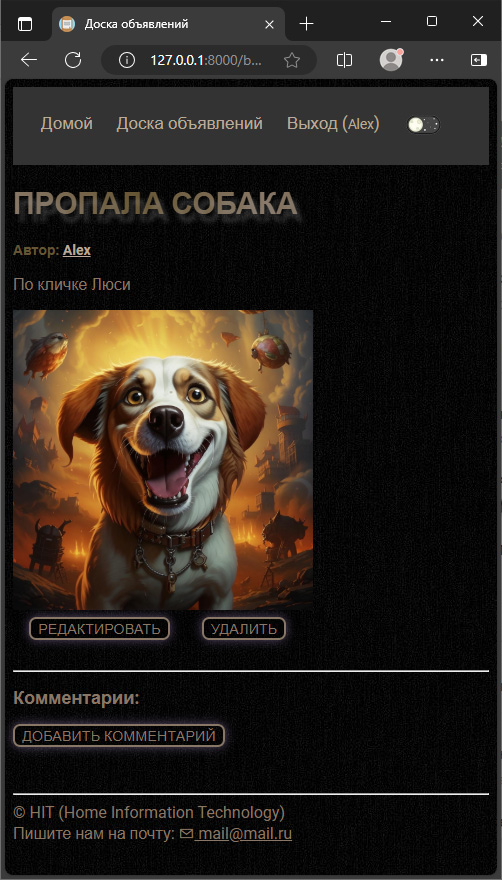
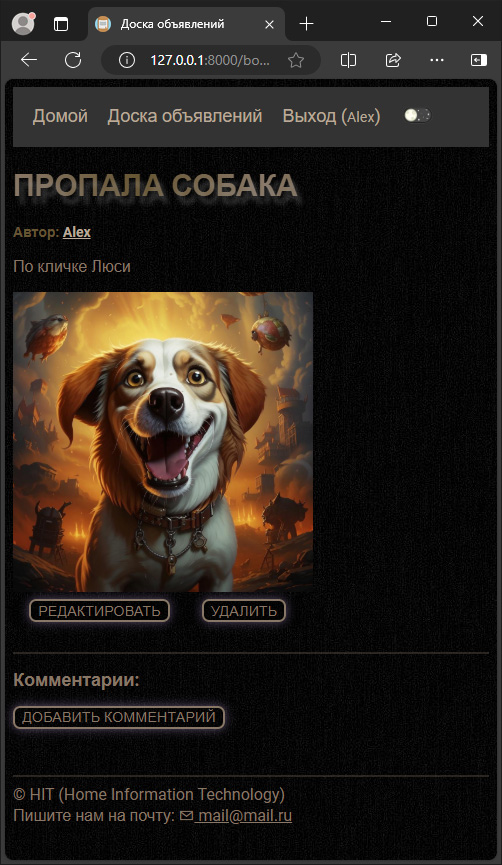
Обновить скриншоты

diff --git a/board_project/templates/base.html b/board_project/templates/base.html
@@ -16,18 +16,18 @@
         <a href="{% url 'home' %}">Домой</a>
         <a href="{% url 'board:advertisement_list' %}">Доска объявлений</a>
         {% if user.is_authenticated %}
-        <a href="{% url 'logout' %}">Выход (<span class="small_font">{{user}}</span>)</a>
+            <a href="{% url 'logout' %}">Выход (<span class="small_font">{{user}}</span>)</a>
+            <a href="?day=theme" title="Светлая/темная тема">
+                {% if user_pref.theme != 'dark' %}
+                  <img src="{% static 'board_project/day.png' %}" width="34">
+                {% else %}
+                  <img src="{% static 'board_project/night.png' %}" width="34">
+                {% endif %}
+            </a>
         {% else %}
             <a href="{% url 'login' %}">Вход</a>
             <a href="{% url 'signup' %}">Регистрация</a>
         {% endif %}
-        <a href="?day=theme">
-            {% if user_pref.theme != 'dark' %}
-              <img src="{% static 'board_project/day.png' %}" width="40">
-            {% else %}
-              <img src="{% static 'board_project/night.png' %}" width="40">
-            {% endif %}
-        </a>
     </div>
 
     {% block content %}

diff --git a/board_project/static/board_project/style-night.css b/board_project/static/board_project/style-night.css
@@ -1,15 +1,15 @@
 .navbar {
             overflow: hidden;
             background-color: #333;
-            padding: 14px 16px;
+            padding: 8px 10px;
         }
         .navbar a {
             float: left;
             color: #f2f2f2;
             text-align: center;
-            padding: 12px;
+            padding: 10px;
             text-decoration: none;
-            font-size: 17px;
+            font-size: 18px;
         }
         .navbar a:hover {
             background-color: #111;
@@ -45,6 +45,12 @@ input[type='checkbox']:checked {
   width: 20px;
   height: 20px;
   background-color: #6080f3;
+}
+
+hr {
+  height: 2px;
+  background-color: RGB(128, 112, 96, 0.3);
+  border: none;
 }
 
 .container {

diff --git a/board_project/static/board_project/style-day.css b/board_project/static/board_project/style-day.css
@@ -1,15 +1,15 @@
 .navbar {
             overflow: hidden;
             background-color: #ccc;
-            padding: 14px 16px;
+            padding: 8px 10px;
         }
         .navbar a {
             float: left;
             color: #f2f2f2;
             text-align: center;
-            padding: 12px;
+            padding: 10px;
             text-decoration: none;
-            font-size: 17px;
+            font-size: 18px;
         }
         .navbar a:hover {
             background-color: #ddd;
@@ -33,6 +33,12 @@ input[type='checkbox'] {
   width: 20px;
   height: 20px;
   background-color: #6080f3;
+}
+
+hr {
+  height: 2px;
+  background-color: RGB(128, 112, 96, 0.3);
+  border: none;
 }
 
 .container {
